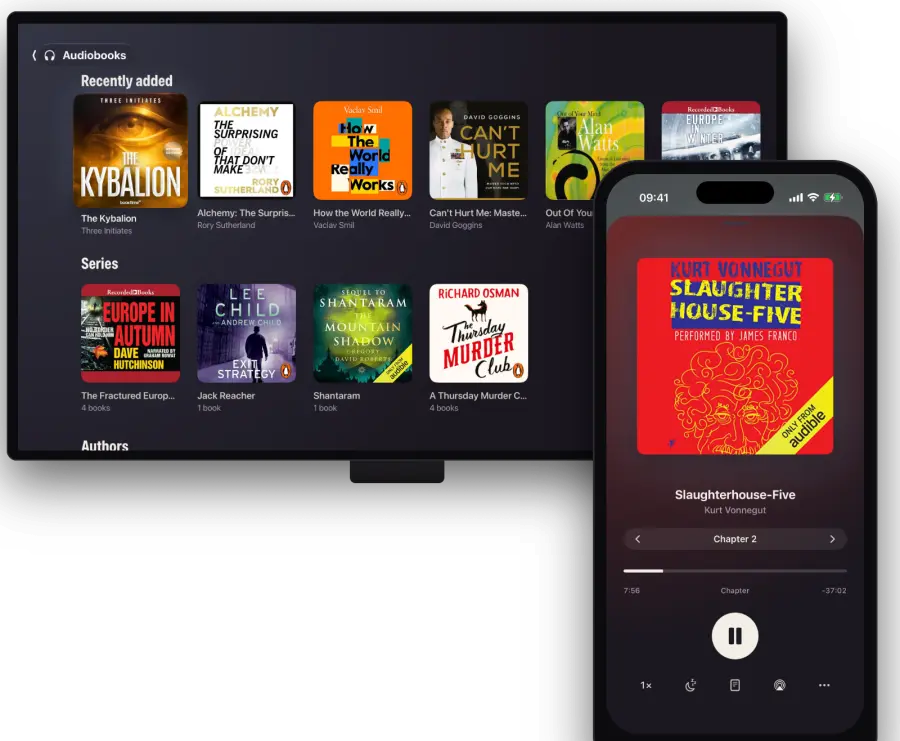
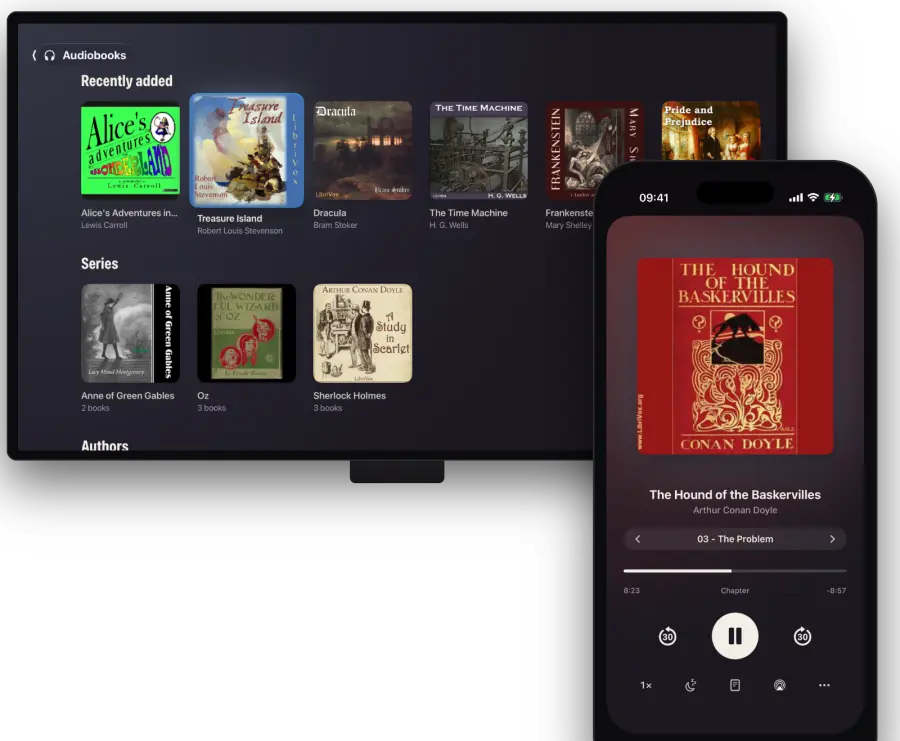
site: audiobooks image from public-domain LibriVox recordings
Claude-Session: https://claude.ai/code/session_014wqedgp7jjKZkQdPDwN33C

diff --git a/site/index.html b/site/index.html
@@ -298,7 +298,7 @@
             </ul>
             <a class="more" href="/guide/audiobooks">How audiobooks work</a>
           </div>
-          <img class="shot" src="/shots/books.webp" width="1600" height="1316" srcset="/shots/books-1000.webp 900w, /shots/books.webp 1600w" sizes="(min-width: 1260px) 690px, (min-width: 860px) 56vw, 92vw" loading="lazy" alt="Flexarr's Audiobooks library on an Apple TV, with recently added books and series such as Jack Reacher and the Thursday Murder Club, and Slaughterhouse-Five playing on an iPhone at Chapter 2.">
+          <img class="shot" src="/shots/books.webp" width="1600" height="1316" srcset="/shots/books-1000.webp 900w, /shots/books.webp 1600w" sizes="(min-width: 1260px) 690px, (min-width: 860px) 56vw, 92vw" loading="lazy" alt="Flexarr's Audiobooks library on an Apple TV, with Treasure Island, Dracula and Frankenstein recently added and the Sherlock Holmes, Oz and Anne of Green Gables series, and The Hound of the Baskervilles playing on an iPhone.">
         </div>
 
         <div class="row flip">
